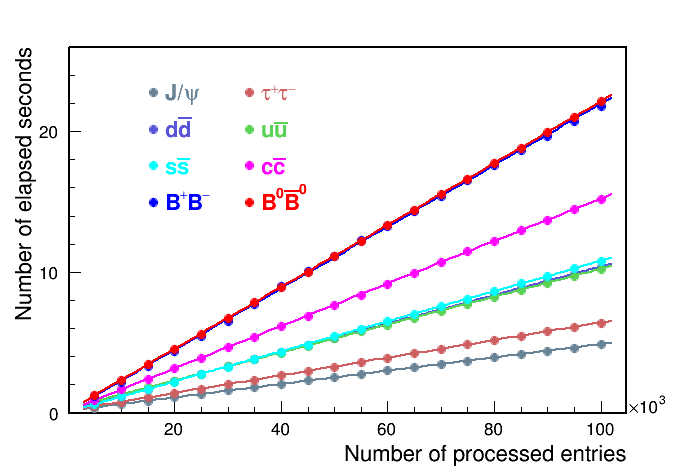
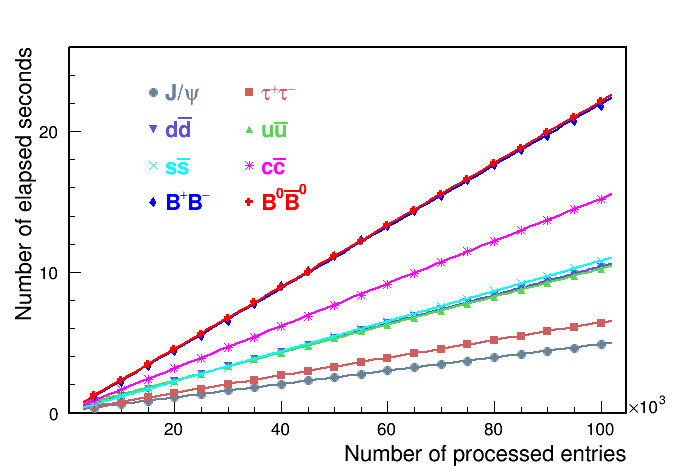
Update the styles and sizes of the markers in the plots of fig_2

diff --git a/examples/in_the_paper/fig_02/draw_and_fit_nP_nSec/draw_and_fit_nP_nSec.C b/examples/in_the_paper/fig_02/draw_and_fit_nP_nSec/draw_and_fit_nP_nSec.C
@@ -32,7 +32,7 @@ void draw_and_fit_nP_nSec()
 
   TGraph * Graph=new TGraph(n1, NP, NSec);
   Graph->SetMarkerStyle(20);
-  Graph->SetMarkerSize(1);
+  Graph->SetMarkerSize(0);
   Graph->SetMarkerColor(1);
   multigraph->Add(Graph);
 
@@ -45,13 +45,15 @@ void draw_and_fit_nP_nSec()
   Graph->Fit("f1", "", "", 5, 45);
 
   TGraph * graph[n1];
+  Int_t markerStyle[n1]={20, 21, 23, 22, 5, 31, 33, 34};
   Int_t color[n1]={36, 46, 9, 8, 7, 6, 4, 2};
   string f1Name[n1]={"f10", "f11", "f12", "f13", "f14", "f15", "f16", "f17"};
   for(Int_t i=0;i<n1;i++)
     {
       graph[i]=new TGraph(n2, nP[i], nSec[i]);
-      graph[i]->SetMarkerStyle(20);
-      graph[i]->SetMarkerSize(1);
+      graph[i]->SetMarkerStyle(markerStyle[i]);
+      if(i!=6) graph[i]->SetMarkerSize(1.5);
+      else graph[i]->SetMarkerSize(2);
       graph[i]->SetMarkerColor(color[i]);
       multigraph->Add(graph[i]);
     }

diff --git a/examples/in_the_paper/fig_02/draw_and_fit_nEtr_nSec/draw_and_fit_nEtr_nSec.C b/examples/in_the_paper/fig_02/draw_and_fit_nEtr_nSec/draw_and_fit_nEtr_nSec.C
@@ -30,13 +30,15 @@ void draw_and_fit_nEtr_nSec()
 
   TGraph * graph[n1];
   TF1 * f1[n1];
+  Int_t markerStyle[n1]={20, 21, 23, 22, 5, 31, 33, 34};
   Int_t color[n1]={36, 46, 9, 8, 7, 6, 4, 2};
   string f1Name[n1]={"f10", "f11", "f12", "f13", "f14", "f15", "f16", "f17"};
   for(Int_t i=0;i<n1;i++)
     {
       graph[i]=new TGraph(n2, nEtr[i], nSec[i]);
-      graph[i]->SetMarkerStyle(20);
-      graph[i]->SetMarkerSize(1);
+      graph[i]->SetMarkerStyle(markerStyle[i]);
+      if(i!=6) graph[i]->SetMarkerSize(1);
+      else graph[i]->SetMarkerSize(4./3.);
       graph[i]->SetMarkerColor(color[i]);
 
       f1[i]=new TF1(f1Name[i].c_str(), "[0]*x+[1]", -1, 200000);
